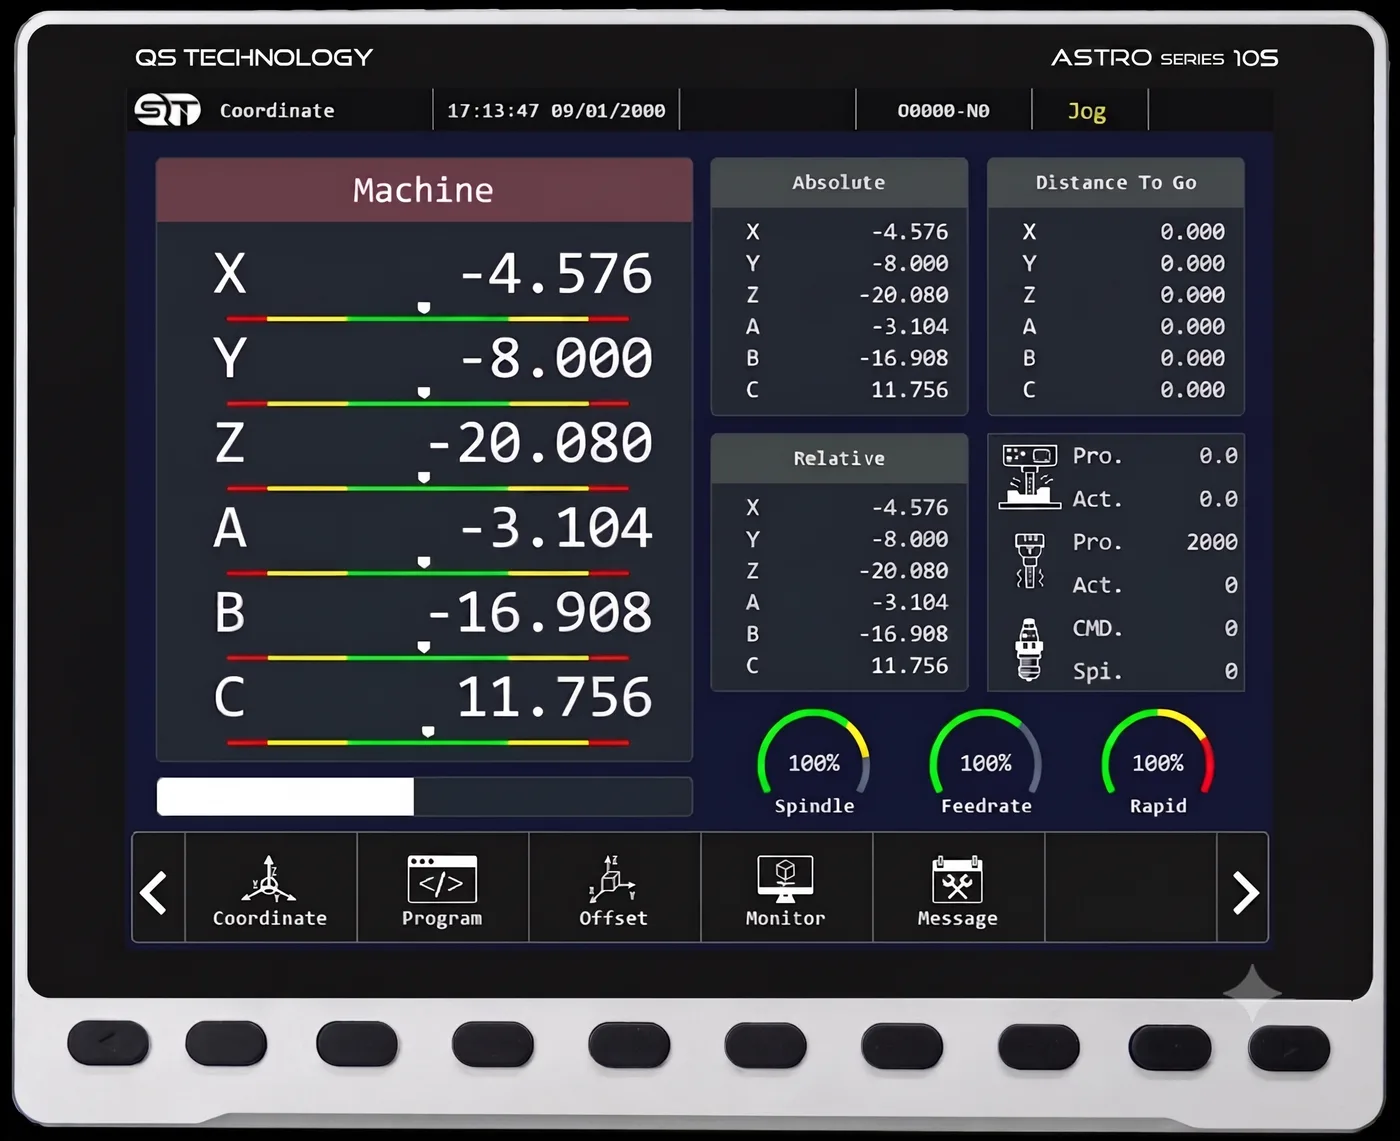
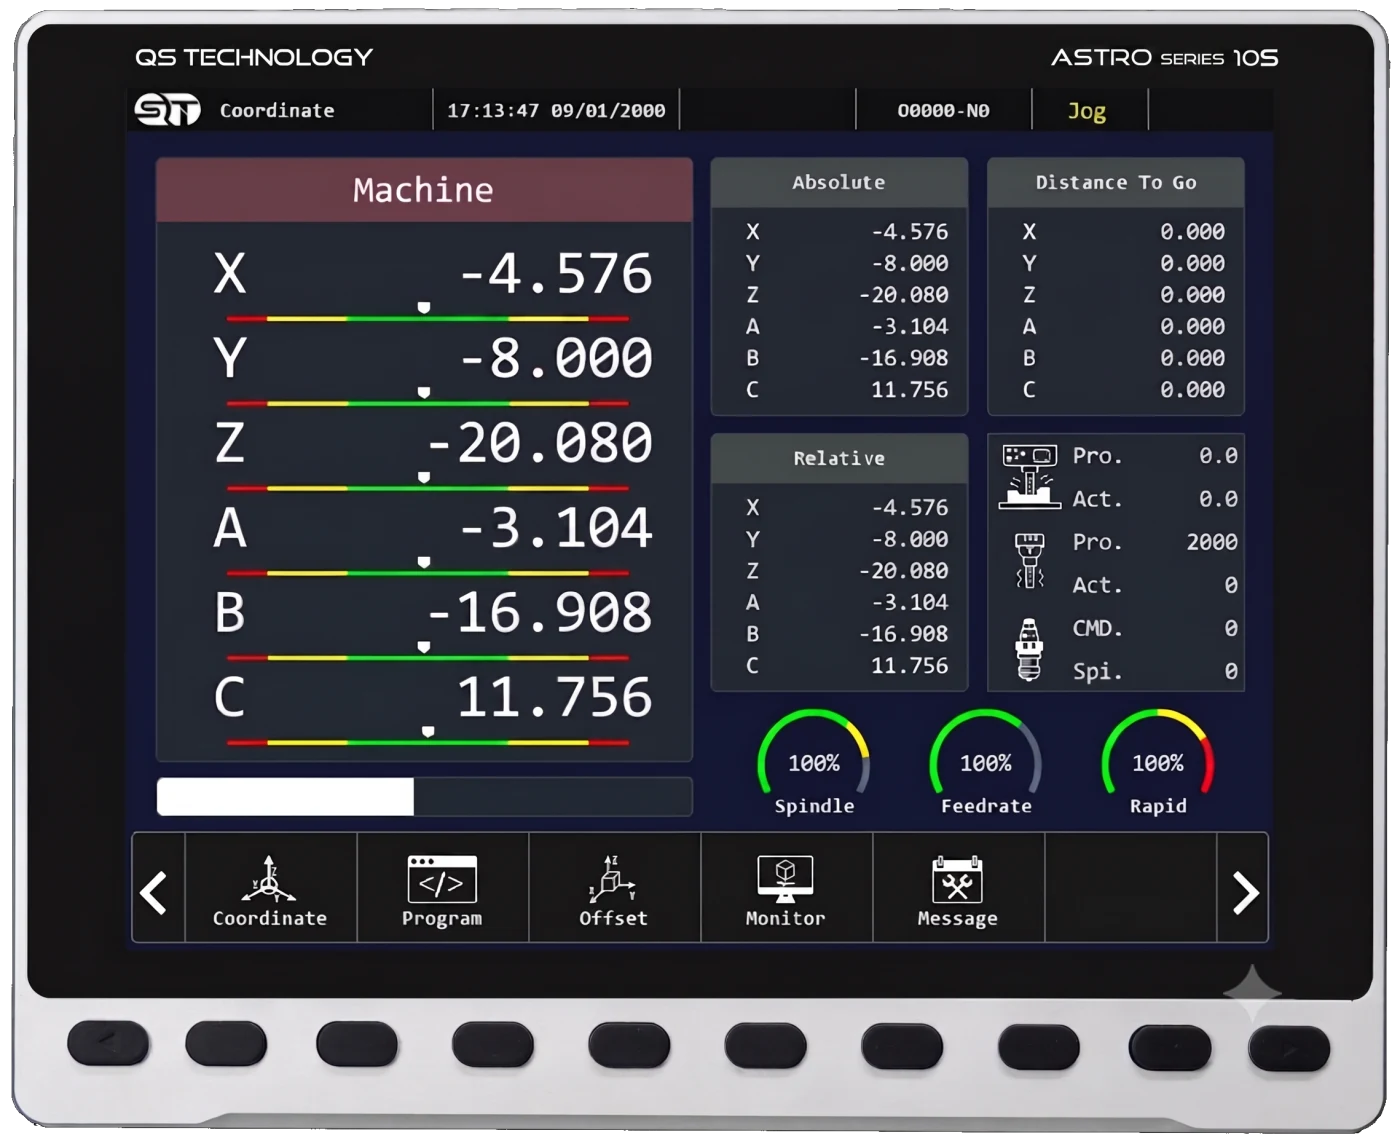
update

Changed region(s): [[0.0, 0.0, 1.0, 1.0]]

diff --git a/app/[locale]/machine-building/_components/workpiece-compare.tsx b/app/[locale]/machine-building/_components/workpiece-compare.tsx
@@ -57,7 +57,7 @@ export default function WorkpieceCompare({
       ref={frameRef}
       className={`group relative ${aspectClass} overflow-hidden border border-[#2a2620] bg-ink-2 select-none touch-none cursor-ew-resize`}
       onPointerDown={(e) => {
-        (e.target as HTMLElement).setPointerCapture?.(e.pointerId);
+        e.currentTarget.setPointerCapture?.(e.pointerId);
         setDragging(true);
         setFromClientX(e.clientX);
       }}
@@ -71,7 +71,7 @@ export default function WorkpieceCompare({
         alt={alt}
         fill
         sizes="(max-width:1024px) 100vw, 60vw"
-        className="object-cover"
+        className="pointer-events-none object-cover"
       />
       <span className="pointer-events-none absolute top-3 right-3 z-10 font-mono text-label-xs tracking-[.16em] uppercase text-ink bg-gold-2/95 px-2 py-1">
         {afterLabel}
@@ -79,7 +79,7 @@ export default function WorkpieceCompare({
 
       {/* BEFORE — raw stock, clipped from the right by the divider */}
       <div
-        className="absolute inset-0 overflow-hidden"
+        className="pointer-events-none absolute inset-0 overflow-hidden"
         style={{ clipPath: `inset(0 ${100 - pos}% 0 0)` }}
         aria-hidden="true"
       >
@@ -112,7 +112,7 @@ export default function WorkpieceCompare({
       </div>
 
       {/* divider + knob */}
-      <div className="absolute inset-y-0 z-20 w-px bg-gold-2/90" style={{ left: `${pos}%` }} aria-hidden="true">
+      <div className="pointer-events-none absolute inset-y-0 z-20 w-px bg-gold-2/90" style={{ left: `${pos}%` }} aria-hidden="true">
         <span className="absolute inset-y-0 -left-2 w-4"></span>
       </div>
       <button
@@ -123,7 +123,7 @@ export default function WorkpieceCompare({
         aria-valuemax={100}
         aria-valuenow={Math.round(pos)}
         onKeyDown={onKeyDown}
-        className="absolute top-1/2 z-30 -translate-x-1/2 -translate-y-1/2 grid place-items-center w-10 h-10 rounded-full bg-ink/80 border border-gold-2 backdrop-blur-[2px] text-gold-2 cursor-ew-resize focus-visible:outline focus-visible:outline-2 focus-visible:outline-gold-2"
+        className="absolute top-1/2 z-30 -translate-x-1/2 -translate-y-1/2 grid place-items-center w-10 h-10 rounded-full bg-ink/80 border border-gold-2 backdrop-blur-[2px] text-gold-2 cursor-ew-resize touch-none focus-visible:outline focus-visible:outline-2 focus-visible:outline-gold-2"
         style={{ left: `${pos}%` }}
       >
         <svg width="18" height="18" viewBox="0 0 24 24" fill="none" stroke="currentColor" strokeWidth="2" strokeLinecap="round" strokeLinejoin="round" aria-hidden="true">

diff --git a/app/[locale]/electronics/_components/catalog-detail.tsx b/app/[locale]/electronics/_components/catalog-detail.tsx
@@ -259,13 +259,17 @@ export async function CatalogDetail({
                         background: "radial-gradient(circle at 50% 38%, #ffffff, #ecebe5)",
                       }}
                     >
+                      {/* On a phone the shot spans the full column, so a tall
+                          photo would push the copy it illustrates a screen and a
+                          half down the page. The ceiling tightens with the
+                          viewport instead of holding at the desktop value. */}
                       <Image
                         src={s.photo.src}
                         alt={s.photo.alt}
                         width={s.photo.w}
                         height={s.photo.h}
                         sizes="(max-width: 1024px) 90vw, 384px"
-                        className="block mx-auto h-auto w-auto max-h-[420px] max-w-full object-contain"
+                        className="block mx-auto h-auto w-auto max-h-[240px] sm:max-h-[320px] lg:max-h-[420px] max-w-full object-contain"
                       />
                     </figure>
                   )}
@@ -396,13 +400,17 @@ export async function CatalogDetail({
                               background: "radial-gradient(circle at 50% 38%, #ffffff, #ecebe5)",
                             }}
                           >
+                            {/* Same ceiling as the overview shots: below lg the
+                                photo has the full column to itself, and a
+                                portrait one would otherwise stand taller than
+                                the feature text it belongs to. */}
                             <Image
                               src={f.photo.src}
                               alt={f.photo.alt}
                               width={f.photo.w}
                               height={f.photo.h}
                               sizes="(max-width: 1024px) 90vw, 416px"
-                              className="w-full h-auto object-contain"
+                              className="block mx-auto h-auto w-auto max-h-[240px] sm:max-h-[320px] lg:max-h-none max-w-full object-contain"
                             />
                           </figure>
                         )}

diff --git a/lib/seo/jsonld.tsx b/lib/seo/jsonld.tsx
@@ -86,7 +86,7 @@ export function buildProduct(p: ProductView, locale: Locale): WithContext<Produc
       "@type": "Brand",
       name: "QS Technology",
     },
-    image: images.length > 0 ? images : [`${APP_URL}/og-default.png`],
+    image: images.length > 0 ? images : [`${APP_URL}/og-default-v2.png`],
     url: localeUrl(`/electronics/${p.slug}`, locale),
     // No `offers`: the site publishes no prices, and an Offer without `price` is
     // invalid — Google rejects the whole Product node rather than ignoring the
@@ -138,7 +138,7 @@ export function buildSeriesProduct(s: SeriesView, locale: Locale): WithContext<P
     },
     image: s.image
       ? (s.image.src.startsWith("http") ? s.image.src : `${APP_URL}${s.image.src}`)
-      : `${APP_URL}/og-default.png`,
+      : `${APP_URL}/og-default-v2.png`,
     url: localeUrl(`/electronics/${s.slug}`, locale),
     // No `offers`: quote-only catalogue, same rationale as buildProduct.
   };
@@ -174,7 +174,7 @@ export function buildArticle(n: NewsView, locale: Locale): WithContext<Article> 
     "@type": "Article",
     headline: n.title,
     description: n.excerpt ? seoDescription(n.excerpt) : undefined,
-    image: n.coverImage ?? `${APP_URL}/og-default.png`,
+    image: n.coverImage ?? `${APP_URL}/og-default-v2.png`,
     url,
     datePublished: n.publishedAt?.toISOString() ?? undefined,
     dateModified: n.publishedAt?.toISOString() ?? undefined,
@@ -204,7 +204,7 @@ export function buildTechArticle(a: ApplicationView, locale: Locale): WithContex
     url,
     image: a.heroImage
       ? (a.heroImage.startsWith("http") ? a.heroImage : `${APP_URL}${a.heroImage}`)
-      : `${APP_URL}/og-default.png`,
+      : `${APP_URL}/og-default-v2.png`,
     author: {
       "@type": "Organization",
       name: "QS Technology",

diff --git a/app/[locale]/electronics/[slug]/page.tsx b/app/[locale]/electronics/[slug]/page.tsx
@@ -85,7 +85,7 @@ export async function generateMetadata({
       url: alternates.canonical,
       images: [
         {
-          url: p.images?.[0]?.url ?? "/og-default.png",
+          url: p.images?.[0]?.url ?? "/og-default-v2.png",
           width: 1200,
           height: 630,
           alt: p.images?.[0]?.alt ?? p.name,
@@ -402,13 +402,17 @@ export default async function ProductDetail({ params }: { params: Promise<{ loca
               >
                 <div className="absolute inset-0 qs-dot-bg qs-dot-drift opacity-70" aria-hidden="true" />
                 <span className="qs-glow left-1/2 top-1/2 h-[78%] w-[78%] -translate-x-1/2 -translate-y-1/2" aria-hidden="true" />
+                {/* Below lg the shot sits under the copy at full column width,
+                    so an unbounded height let a panel photo fill the phone
+                    screen on its own. It now keeps a ceiling at every width —
+                    the lightbox is still there for reading the detail. */}
                 <Image
                   src={galleryShots[0].src}
                   alt={galleryShots[0].alt ?? p.name}
                   width={galleryShots[0].w}
                   height={galleryShots[0].h}
                   sizes="(max-width: 1024px) 92vw, 560px"
-                  className="qs-float relative w-auto lg:max-h-[460px] max-w-full object-contain drop-shadow-[0_22px_44px_rgba(0,0,0,.2)]"
+                  className="qs-float relative w-auto max-h-[280px] sm:max-h-[360px] lg:max-h-[460px] max-w-full object-contain drop-shadow-[0_22px_44px_rgba(0,0,0,.2)]"
                 />
               </LightboxTrigger>
             ) : (

diff --git a/app/[locale]/about/page.tsx b/app/[locale]/about/page.tsx
@@ -40,7 +40,7 @@ export async function generateMetadata({ params }: Props): Promise<Metadata> {
       type: "website",
       locale: locale === "en" ? "en_US" : "vi_VN",
       url: alternates.canonical,
-      images: [{ url: "/og-default.png", width: 1200, height: 630, alt: title }],
+      images: [{ url: "/og-default-v2.png", width: 1200, height: 630, alt: title }],
     },
     twitter: { card: "summary_large_image", title, description },
   };

diff --git a/app/[locale]/contact/page.tsx b/app/[locale]/contact/page.tsx
@@ -25,7 +25,7 @@ export async function generateMetadata({ params }: Props): Promise<Metadata> {
       type: "website",
       locale: locale === "en" ? "en_US" : "vi_VN",
       url: alternates.canonical,
-      images: [{ url: "/og-default.png", width: 1200, height: 630, alt: title }],
+      images: [{ url: "/og-default-v2.png", width: 1200, height: 630, alt: title }],
     },
     twitter: { card: "summary_large_image", title, description },
   };

diff --git a/app/[locale]/downloads/page.tsx b/app/[locale]/downloads/page.tsx
@@ -35,7 +35,7 @@ export async function generateMetadata({ params }: Props): Promise<Metadata> {
       type: "website",
       locale: locale === "en" ? "en_US" : "vi_VN",
       url: alternates.canonical,
-      images: [{ url: "/og-default.png", width: 1200, height: 630, alt: title }],
+      images: [{ url: "/og-default-v2.png", width: 1200, height: 630, alt: title }],
     },
     twitter: { card: "summary_large_image", title, description },
   };

diff --git a/app/[locale]/applications/page.tsx b/app/[locale]/applications/page.tsx
@@ -33,7 +33,7 @@ export async function generateMetadata({
       type: "website",
       locale: locale === "en" ? "en_US" : "vi_VN",
       url: alternates.canonical,
-      images: [{ url: "/og-default.png", width: 1200, height: 630, alt: title }],
+      images: [{ url: "/og-default-v2.png", width: 1200, height: 630, alt: title }],
     },
     twitter: { card: "summary_large_image", title, description },
   };

diff --git a/app/[locale]/electronics/page.tsx b/app/[locale]/electronics/page.tsx
@@ -40,7 +40,7 @@ export async function generateMetadata({
       type: "website",
       locale: locale === "en" ? "en_US" : "vi_VN",
       url: alternates.canonical,
-      images: [{ url: "/og-default.png", width: 1200, height: 630, alt: title }],
+      images: [{ url: "/og-default-v2.png", width: 1200, height: 630, alt: title }],
     },
     twitter: { card: "summary_large_image", title, description },
   };

diff --git a/app/[locale]/news/page.tsx b/app/[locale]/news/page.tsx
@@ -28,7 +28,7 @@ export async function generateMetadata({
       type: "website",
       locale: locale === "en" ? "en_US" : "vi_VN",
       url: alternates.canonical,
-      images: [{ url: "/og-default.png", width: 1200, height: 630, alt: title }],
+      images: [{ url: "/og-default-v2.png", width: 1200, height: 630, alt: title }],
     },
     twitter: { card: "summary_large_image", title, description },
   };

diff --git a/app/[locale]/page.tsx b/app/[locale]/page.tsx
@@ -34,7 +34,7 @@ export async function generateMetadata({
       type: "website",
       locale: locale === "en" ? "en_US" : "vi_VN",
       url: alternates.canonical,
-      images: [{ url: "/og-default.png", width: 1200, height: 630, alt: title }],
+      images: [{ url: "/og-default-v2.png", width: 1200, height: 630, alt: title }],
     },
     twitter: { card: "summary_large_image", title, description },
   };

diff --git a/app/[locale]/services/[slug]/page.tsx b/app/[locale]/services/[slug]/page.tsx
@@ -45,7 +45,7 @@ export async function generateMetadata({
       type: "website",
       locale: locale === "en" ? "en_US" : "vi_VN",
       url: alternates.canonical,
-      images: [{ url: "/og-default.png", width: 1200, height: 630, alt: title }],
+      images: [{ url: "/og-default-v2.png", width: 1200, height: 630, alt: title }],
     },
     twitter: { card: "summary_large_image", title, description },
   };
